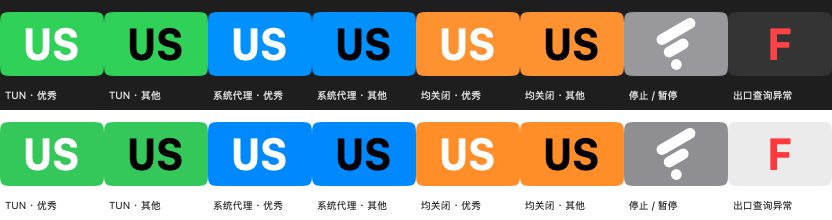
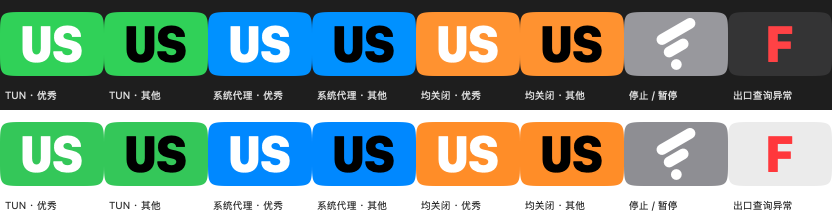
style(tray): soften badge corners and enlarge status text

diff --git a/plugins/tray/macos/tray/Sources/tray/FlashStatusImage.swift b/plugins/tray/macos/tray/Sources/tray/FlashStatusImage.swift
@@ -20,7 +20,7 @@ final class FlashStatusImage {
                 return true
             }
             let attributes: [NSAttributedString.Key: Any] = [
-                .font: NSFont.monospacedSystemFont(ofSize: 11, weight: .bold),
+                .font: NSFont.monospacedSystemFont(ofSize: 12.5, weight: .heavy),
                 .foregroundColor: failed ? NSColor.systemRed : (isHighQuality ? NSColor.white : NSColor.black),
             ]
             let text = label as NSString
@@ -34,7 +34,7 @@ final class FlashStatusImage {
     }
 
     private static func outline(_ rect: NSRect) -> NSBezierPath {
-        let radius: CGFloat = 4
+        let radius: CGFloat = 6
         let path = NSBezierPath()
         path.move(to: NSPoint(x: rect.minX + radius, y: rect.minY))
         path.line(to: NSPoint(x: rect.maxX - radius, y: rect.minY))

diff --git a/FLASH-NOTICE.md b/FLASH-NOTICE.md
@@ -86,3 +86,10 @@ retained in flash/branding/tiles, with source hashes in provenance.json. The
 approved green vector glyph is composited on those tiles. This replaces the
 revision 3 approximate corner path while retaining its green palette and glyph
 geometry. Original GPL attribution applies to the inherited tile resources.
+
+## 1.9.1 revision 5
+
+Application build 2026102305 softens the native status badge corners (4 to 6 pt)
+and increases country-code / error text from 11 pt Bold to 12.5 pt Heavy.
+The 26 × 18 pt icon footprint and all state/color semantics are retained.
+The revision 4 application-icon tile and the earlier backup repairs remain.
